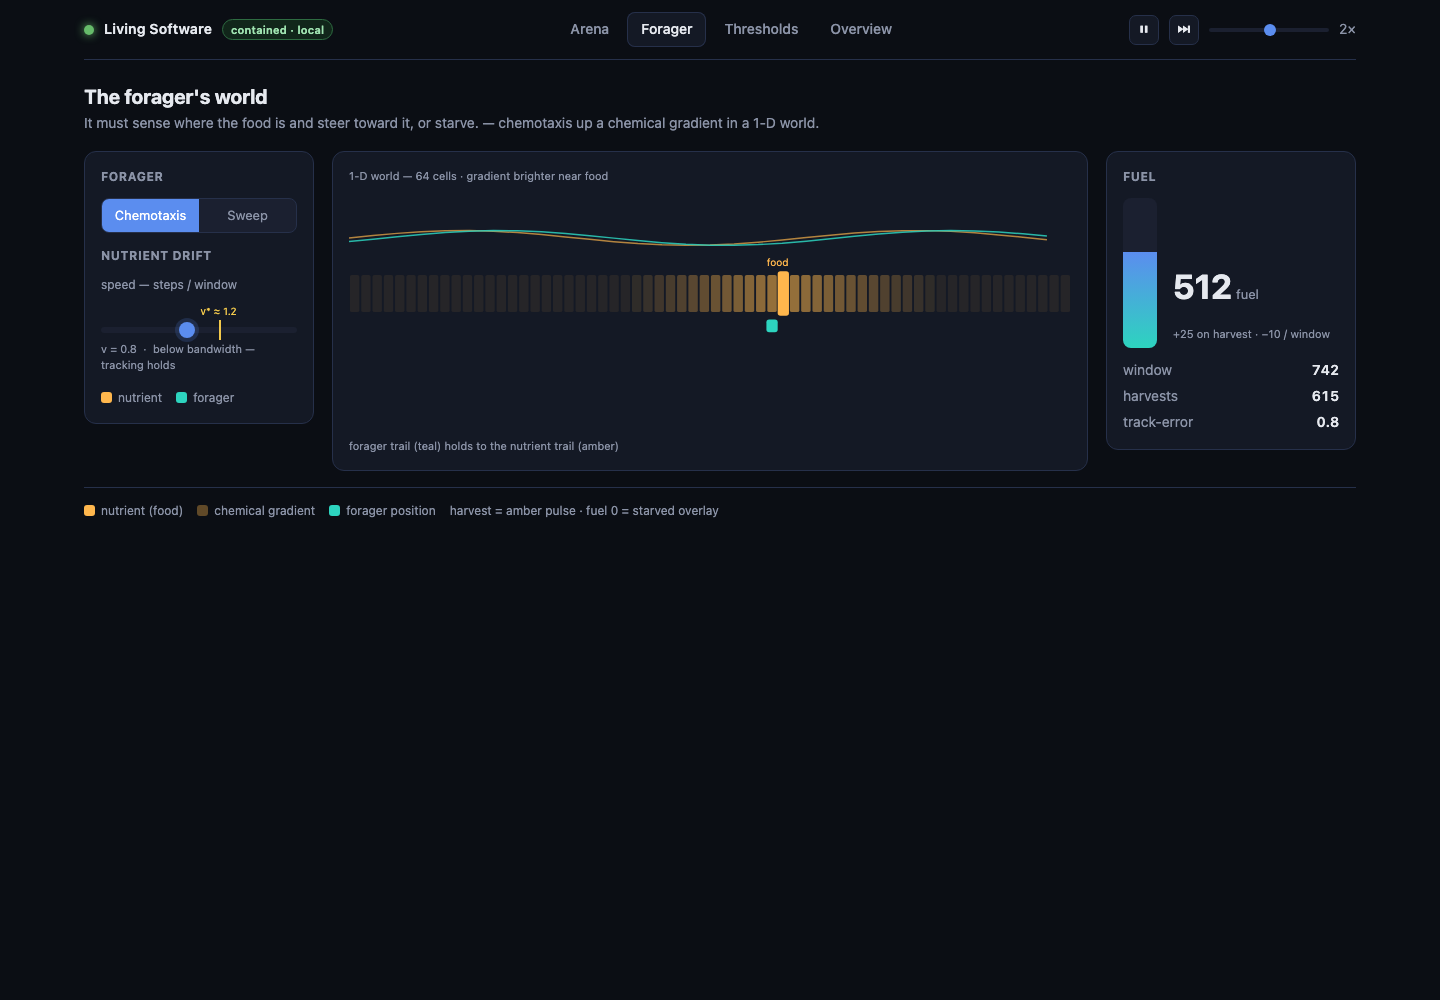
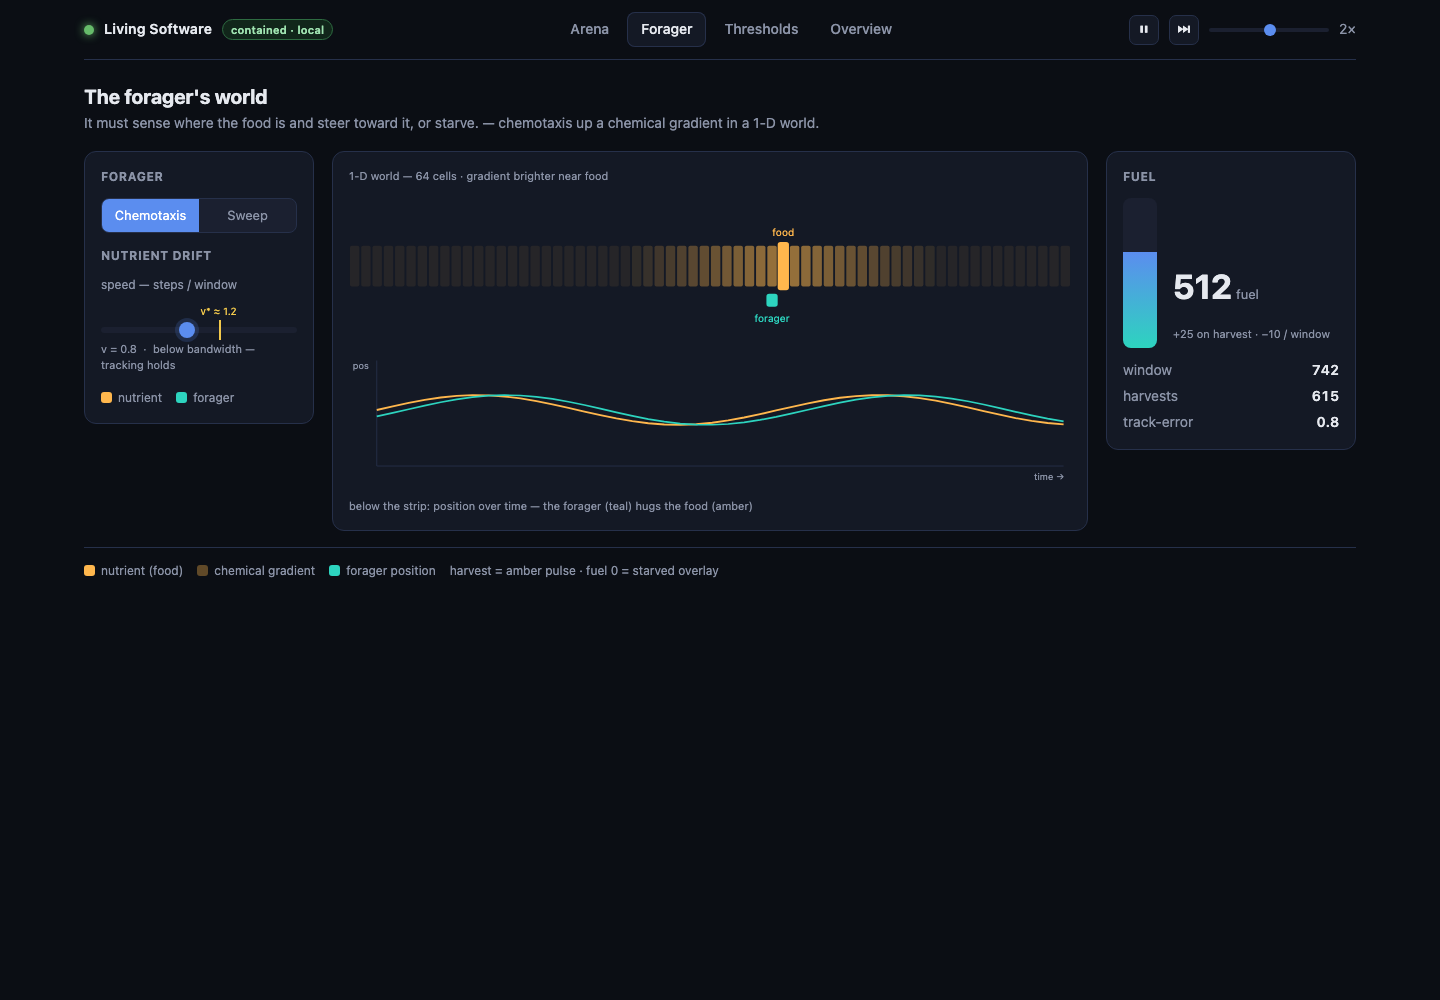
docs: polish viz mocks — lowercase λ in chart titles, tie forager trails to strip
Thresholds chart titles no longer uppercase-transform λ into Λ. Forager
view replaces the floating sine trails with a position-over-time timeline
directly beneath the world strip (forager line hugging the food line).
Adds an index landing page linking the four mocks.

diff --git a/viz/mocks/forager.html b/viz/mocks/forager.html
@@ -29,8 +29,8 @@
     <!-- world -->
     <div class="panel overlay">
       <div class="hint" style="margin-bottom:8px">1-D world — 64 cells · gradient brighter near food</div>
-      <svg viewBox="0 0 780 220" height="240" id="world"></svg>
-      <div class="hint" style="margin-top:6px">forager trail (teal) holds to the nutrient trail (amber)</div>
+      <svg viewBox="0 0 780 300" height="300" id="world"></svg>
+      <div class="hint" style="margin-top:6px">below the strip: position over time — the forager (teal) hugs the food (amber)</div>
     </div>
 
     <!-- fuel & readout -->
@@ -62,29 +62,26 @@
 </div>
 
 <script>
-// 1-D world: 64 cells; food at 38, forager at 37 (tracking). Gradient falloff.
 const NS="http://www.w3.org/2000/svg", W=document.getElementById('world');
 const n=64, cw=780/n, food=38, pos=37;
-function rect(x,y,w,h,fill,extra){const r=document.createElementNS(NS,'rect');
-  r.setAttribute('x',x);r.setAttribute('y',y);r.setAttribute('width',w);r.setAttribute('height',h);
-  r.setAttribute('fill',fill);if(extra)for(const k in extra)r.setAttribute(k,extra[k]);W.appendChild(r);}
-// gradient cells
-for(let i=0;i<n;i++){
-  const d=Math.abs(i-food), s=Math.max(0,1-d/14);
-  rect(i*cw+1,70,cw-2,40,`rgba(255,183,77,${0.08+0.5*s})`,{rx:2});
-}
-// food + forager markers
-rect(food*cw,66,cw,48,'var(--nutrient)',{rx:3});           // food
-rect(pos*cw,118,cw,14,'var(--fuel)',{rx:3});               // forager marker
-// trails (last ~30 windows) as polylines
-function trail(get,color,yb){let pts='';for(let t=0;t<30;t++){const x=(780/30)*t;
-  const v=get(t); pts+=`${x},${yb-v} `;}
-  const p=document.createElementNS(NS,'polyline');p.setAttribute('points',pts);
-  p.setAttribute('fill','none');p.setAttribute('stroke',color);p.setAttribute('stroke-width','1.6');p.setAttribute('opacity','.85');W.appendChild(p);}
-trail(t=>30+8*Math.sin(t/3),'rgba(255,183,77,.8)',60);     // food path
-trail(t=>30+8*Math.sin(t/3-0.5),'#2dd4bf',60);             // forager path (just behind)
-// axis hint
-const lab=document.createElementNS(NS,'text');lab.setAttribute('x',food*cw);lab.setAttribute('y',60);
-lab.setAttribute('fill','#ffb74d');lab.setAttribute('font-size','11');lab.setAttribute('text-anchor','middle');lab.textContent='food';W.appendChild(lab);
+function el(t,a){const e=document.createElementNS(NS,t);for(const k in a)e.setAttribute(k,a[k]);return W.appendChild(e),e;}
+// --- spatial strip: chemical gradient cells (brighter near food) ---
+for(let i=0;i<n;i++){const d=Math.abs(i-food),s=Math.max(0,1-d/14);
+  el('rect',{x:i*cw+1,y:46,width:cw-2,height:44,rx:2,fill:`rgba(255,183,77,${0.08+0.5*s})`});}
+el('rect',{x:food*cw,y:42,width:cw,height:52,rx:3,fill:'var(--nutrient)'});        // food
+el('rect',{x:pos*cw,y:98,width:cw,height:14,rx:3,fill:'var(--fuel)'});             // forager marker
+el('text',{x:food*cw+cw/2,y:36,fill:'#ffb74d','font-size':11,'text-anchor':'middle'}).textContent='food';
+el('text',{x:pos*cw+cw/2,y:128,fill:'#2dd4bf','font-size':11,'text-anchor':'middle'}).textContent='forager';
+// --- position-over-time timeline, tied directly beneath the strip ---
+const T0=170,T1=284,xL=30,xR=772,m=44;
+el('line',{x1:xL,y1:T1,x2:xR,y2:T1,stroke:'#26304a','stroke-width':1});            // x axis (time)
+el('line',{x1:xL,y1:T0,x2:xL,y2:T1,stroke:'#26304a','stroke-width':1});            // y axis (position)
+el('text',{x:4,y:T0+9,fill:'#8b93a7','font-size':10}).textContent='pos';
+el('text',{x:xR-32,y:T1+15,fill:'#8b93a7','font-size':10}).textContent='time →';
+function track(fn,color,w){let p='';for(let t=0;t<m;t++){const x=xL+(xR-xL)*t/(m-1);
+  const y=T1-(T1-T0)*(fn(t)/64);p+=`${x},${y} `;}
+  el('polyline',{points:p,fill:'none',stroke:color,'stroke-width':w});}
+track(t=>34+9*Math.sin(t/4),'#ffb74d',2);            // food position over time
+track(t=>34+9*Math.sin(t/4-0.45),'#2dd4bf',1.8);     // forager hugging just behind
 </script>
 </body></html>

diff --git a/viz/mocks/index.html b/viz/mocks/index.html
@@ -1,0 +1,25 @@
+<!doctype html><html><head><meta charset="utf-8"><link rel="stylesheet" href="mock.css">
+<title>Living Software — visualizer mocks</title>
+<style>
+.wrap{max-width:760px;margin:60px auto;padding:0 24px;}
+.lead{color:var(--muted);margin:0 0 28px;}
+.grid{display:grid;grid-template-columns:1fr 1fr;gap:16px;}
+a.card{display:block;background:var(--panel);border:1px solid var(--line);border-radius:12px;
+  padding:20px;color:var(--text);text-decoration:none;transition:border-color .15s;}
+a.card:hover{border-color:var(--accent);}
+a.card h3{margin:0 0 6px;font-size:16px;text-transform:none;letter-spacing:0;color:var(--text);}
+a.card p{margin:0;color:var(--muted);font-size:13px;line-height:1.5;}
+.note{margin-top:26px;color:var(--muted);font-size:12px;}
+</style></head><body>
+<div class="wrap">
+  <div class="brand" style="font-size:22px;margin-bottom:6px"><span class="dot"></span>Living Software — visualizer mocks</div>
+  <p class="lead">Static mocks for approval (no live data yet). Four views.</p>
+  <div class="grid">
+    <a class="card" href="arena.html"><h3>1 · Arena</h3><p>An organism living and dying in its decaying arena — membrane, decay, repair, heartbeat.</p></a>
+    <a class="card" href="forager.html"><h3>2 · Forager</h3><p>Chemotaxis in a 1-D world — gradient, nutrient, position tracking, fuel.</p></a>
+    <a class="card" href="thresholds.html"><h3>3 · Thresholds</h3><p>The T*/λ*/v* survival curves, the six-point aliveness scorecard, the C-vs-asm benchmark.</p></a>
+    <a class="card" href="overview.html"><h3>4 · Overview</h3><p>The ELI5 and the ladder/lineage — each rung and the death that taught the next.</p></a>
+  </div>
+  <p class="note">Mocks are hand-rendered representative frames; the live build wires these to the running medium over Server-Sent Events.</p>
+</div>
+</body></html>

diff --git a/viz/mocks/thresholds.html b/viz/mocks/thresholds.html
@@ -10,6 +10,7 @@ td.org{text-align:left;font-weight:600;}
 .yes{color:#66bb6a;} .no{color:#5a6373;}
 .score{font-weight:700;}
 .verdict{font-size:11px;color:var(--muted);}
+.charts h3{text-transform:none;letter-spacing:.2px;font-size:13px;color:#cdd3df;}
 .bars{display:flex;align-items:flex-end;gap:8px;height:150px;padding-top:10px;}
 .barpair{flex:1;display:flex;gap:3px;align-items:flex-end;height:100%;}
 .barpair i{flex:1;border-radius:3px 3px 0 0;}
@@ -54,13 +55,13 @@ td.org{text-align:left;font-weight:600;}
 const NS="http://www.w3.org/2000/svg";
 // three survival-vs-parameter charts
 const charts=[
-  {title:"T*  (solvent — survival vs sweep period)", crit:"T* = 500", critx:.5,
+  {title:"T*  ·  solvent — survival vs sweep period", crit:"T* = 500", critx:.5,
    series:[{c:"#66bb6a",pts:[[0,1],[.3,1],[.45,1],[.5,1],[.55,0],[.7,0],[1,0]].reverse()}]},
-  {title:"λ*  (bit-rot — survival vs flip rate)", crit:"λ* ≈ 0.04 → colony lifts", critx:.3,
+  {title:"λ*  ·  bit-rot — survival vs flip rate", crit:"λ* ≈ 0.04 → colony lifts", critx:.3,
    series:[{c:"#ef5350",pts:[[0,1],[.15,.4],[.3,0],[.6,0],[1,0]]},
            {c:"#f2c94c",pts:[[0,1],[.3,.6],[.5,.4],[.7,.1],[1,0]]},
            {c:"#66bb6a",pts:[[0,1],[.4,.7],[.6,.5],[.8,.25],[1,.1]]}]},
-  {title:"v*  (foraging — survival vs drift speed)", crit:"v* ≈ 1.2", critx:.6,
+  {title:"v*  ·  foraging — survival vs drift speed", crit:"v* ≈ 1.2", critx:.6,
    series:[{c:"#2dd4bf",pts:[[0,1],[.4,1],[.55,1],[.6,.9],[.72,0],[1,0]]},
            {c:"#5a6373",pts:[[0,0],[1,0]]}]}
 ];